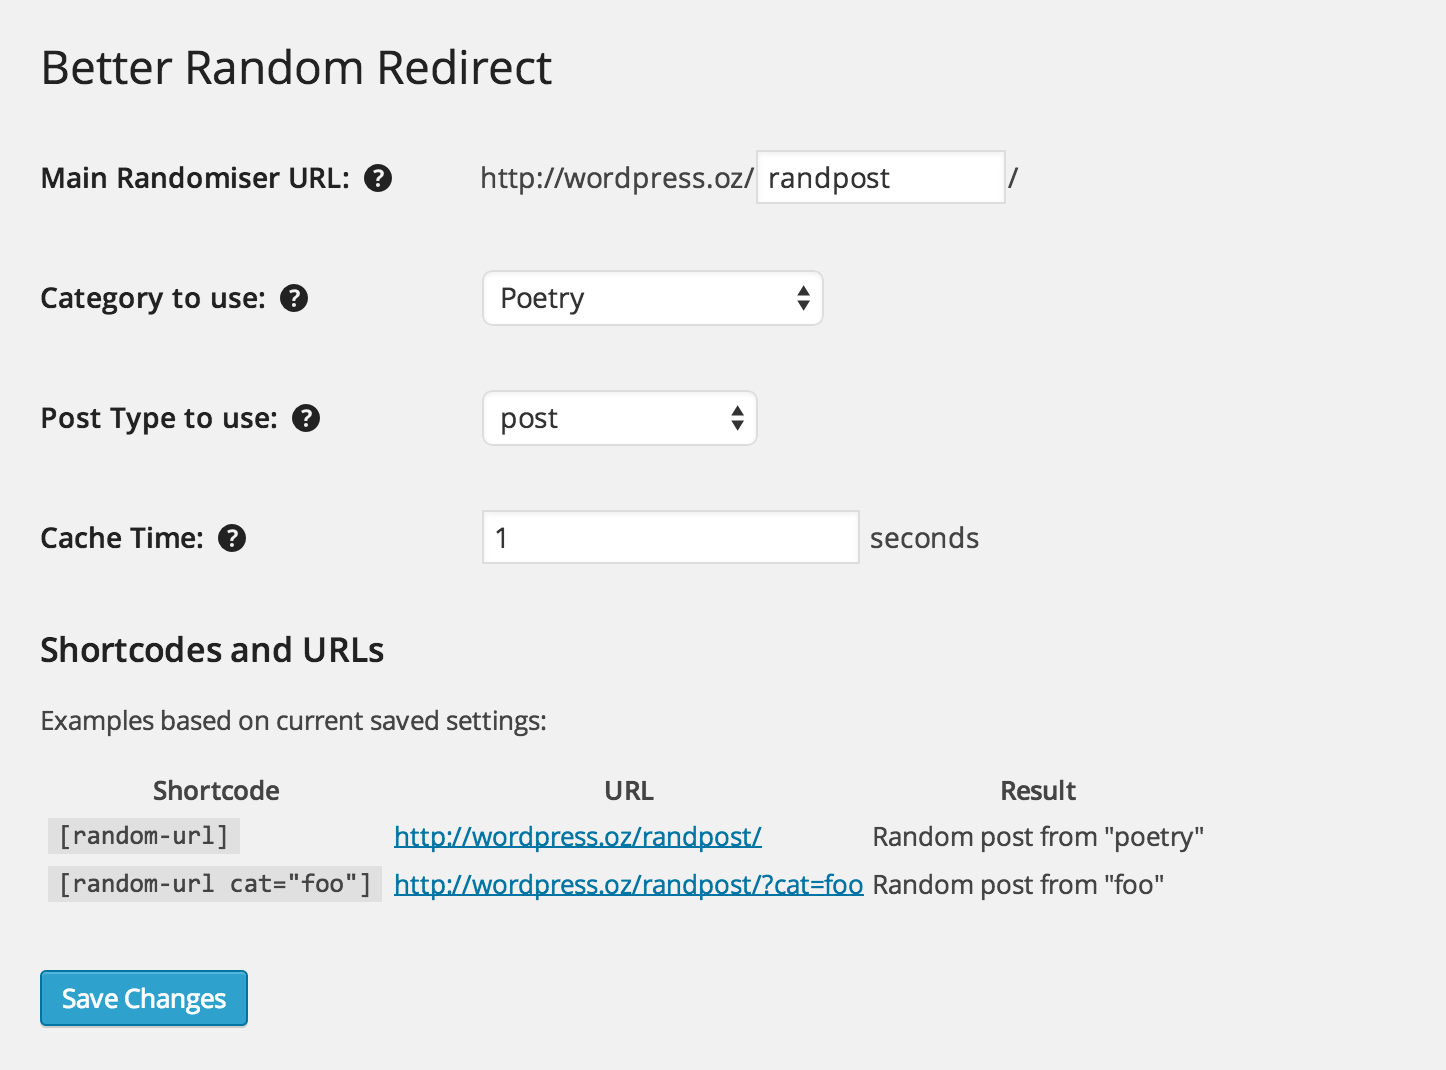
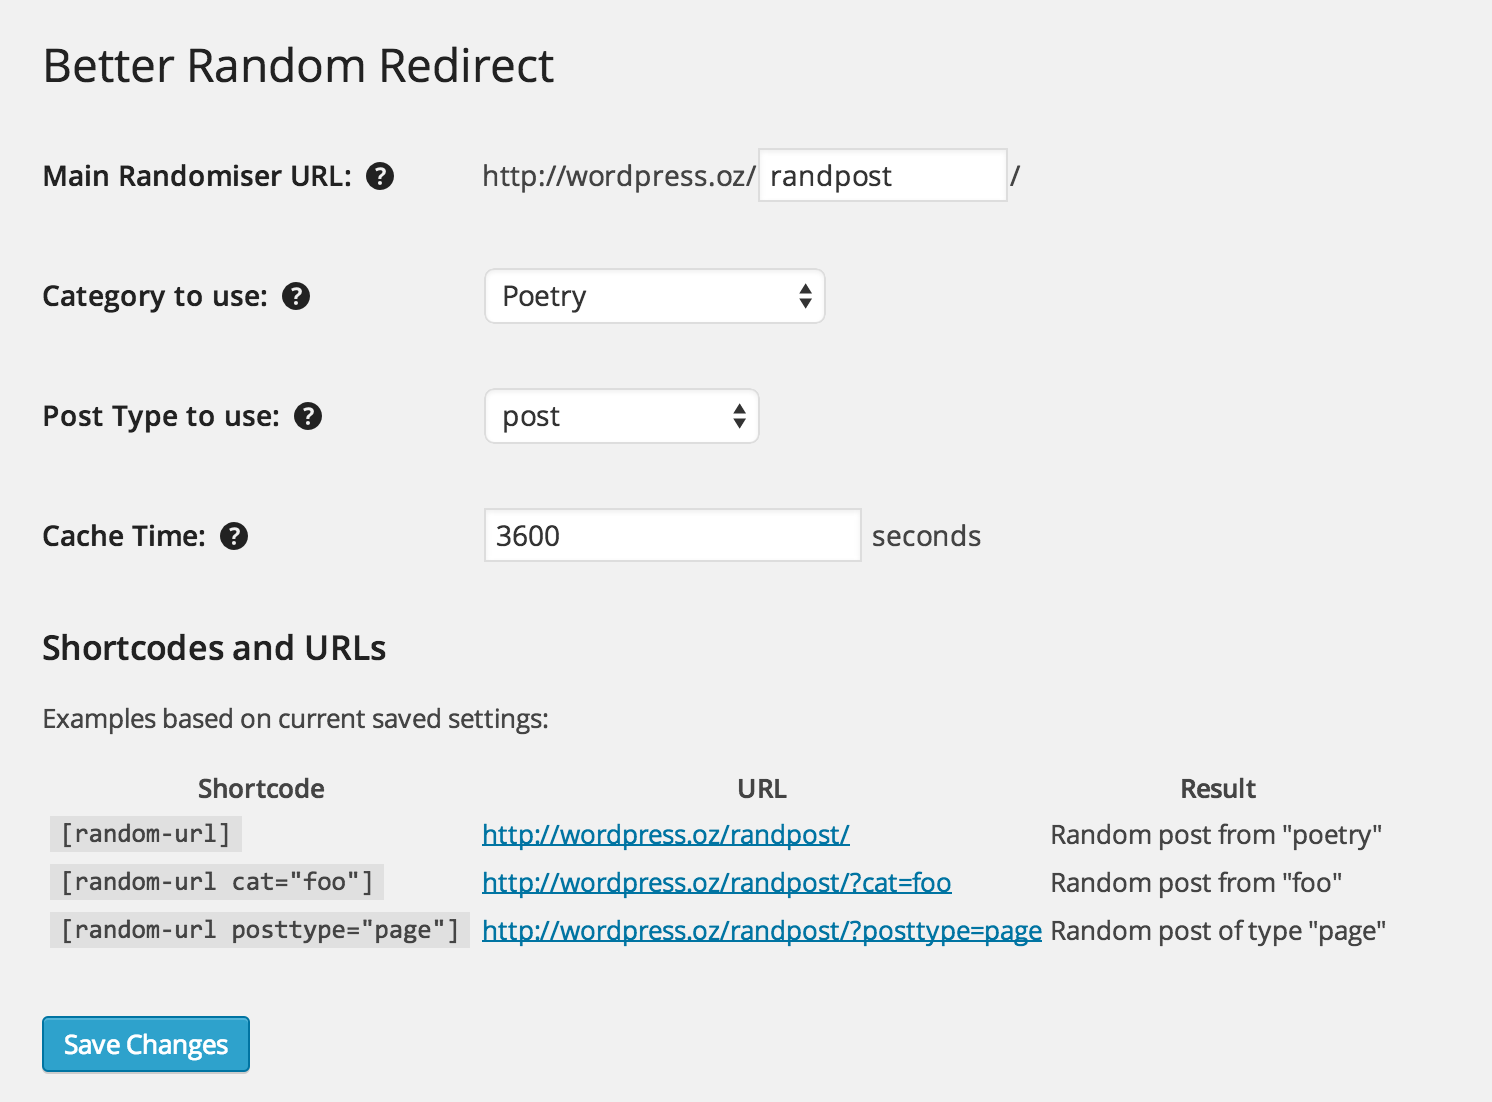
Display correct URL in admin on multisite, give example of posttype= parameters in admin
git-svn-id: https://plugins.svn.wordpress.org/better-random-redirect/trunk@1040505 b8457f37-d9ea-0310-8a92-e5e31aec5664

diff --git a/admin.php b/admin.php
@@ -16,7 +16,7 @@ echo settings_fields( 'better_random_redirect' );
 	<tr valign="top">
             <th scope="row"><label for="id_brr_default_slug"><?php _e('Main Randomiser URL','better_random_redirect'); ?>: <span id="brr_default_slug_help" class="dashicons dashicons-editor-help"></span>
             </label></th>
-	    <td><?php echo network_site_url(); ?>/<input type="text" id="id_brr_default_slug" name="brr_default_slug" value="<?php echo get_option('brr_default_slug'); ?>" size="12" />/</td>
+	    <td><?php echo site_url(); ?>/<input type="text" id="id_brr_default_slug" name="brr_default_slug" value="<?php echo get_option('brr_default_slug'); ?>" size="12" />/</td>
 	</tr>
     <tr valign="top">
             <th scope="row"><label for="id_brr_default_category"><?php _e('Category to use','better_random_redirect'); ?>: <span id="brr_default_category_help" class="dashicons dashicons-editor-help"></span></label></th>
@@ -65,13 +65,18 @@ echo settings_fields( 'better_random_redirect' );
         </tr>
         <tr>
             <td><code>[random-url]</code></td>
-            <td><a href="#"><?php echo network_site_url().'/'.get_option('brr_default_slug').'/'; ?></td>
+            <td><a href="#"><?php echo site_url().'/'.get_option('brr_default_slug').'/'; ?></td>
             <td><?php echo sprintf(__('Random post from %s','better_random_redirect'), $current_cat); ?></a></td>
         </tr>
         <tr>
             <td><code>[random-url cat="foo"]</code></td>
-            <td><a href="#"><?php echo network_site_url().'/'.get_option('brr_default_slug').'/?cat=foo'; ?></a></td>
+            <td><a href="#"><?php echo site_url().'/'.get_option('brr_default_slug').'/?cat=foo'; ?></a></td>
             <td><?php _e('Random post from "foo"','better_random_redirect'); ?></td>
+        </tr>
+        <tr>
+            <td><code>[random-url posttype="page"]</code></td>
+            <td><a href="#"><?php echo site_url().'/'.get_option('brr_default_slug').'/?posttype=page'; ?></a></td>
+            <td><?php _e('Random post of type "page"','better_random_redirect'); ?></td>
         </tr>
     </table>
     <?php submit_button(); ?>

diff --git a/better-random-redirect.php b/better-random-redirect.php
@@ -4,7 +4,7 @@ Plugin Name: Better Random Redirect
 Plugin URI: https://wordpress.org/plugins/better-random-redirect/
 Description: Based on the original Random Redirect, this plugin enables efficent, easy random redirection to a post.
 Author: Robert Peake
-Version: 1.3
+Version: 1.3.1
 Author URI: http://www.robertpeake.com/
 Text Domain: better_random_redirect
 Domain Path: /languages/
